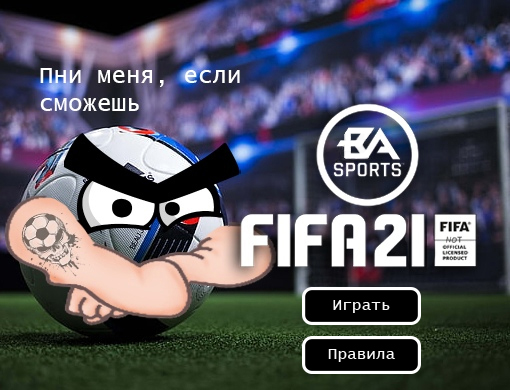
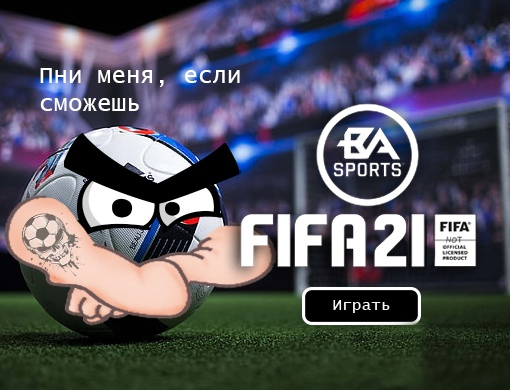
fixed rules bug, added collide feature

Changed region(s): [[0.5588, 0.8, 0.8824, 0.9846]]

diff --git a/pygame_project/main.py b/pygame_project/main.py
@@ -111,7 +111,7 @@ def rules_screen():
                 terminate()
             elif event.type == pygame.KEYDOWN or \
                     event.type == pygame.MOUSEBUTTONDOWN:
-                start_screen()
+                return
         pygame.display.flip()
         CLOCK.tick(FPS)
 
@@ -290,18 +290,18 @@ class Cross(pygame.sprite.Sprite):
             TILE_WIDTH * x + 1.5, TILE_HEIGHT * y + 1.5)
 
 
-class ToMainMenu(pygame.sprite.Sprite):
-    def __init__(self, x, y):
-        super().__init__(tiles, all_sprites)
-        self.image = main_menu_image
-        self.rect = self.image.get_rect().move(TILE_WIDTH * x, TILE_HEIGHT * y)
+class Button(pygame.sprite.Sprite):
+    def __init__(self, type, x, y):
+        super().__init__(button_group, all_sprites)
+        self.image = button_images[type]
+        self.rect = self.image.get_rect().move(
+            TILE_WIDTH * x, TILE_HEIGHT * y)
+        self.type = type
 
-
-class Restart(pygame.sprite.Sprite):
-    def __init__(self, x, y):
-        super().__init__(tiles, all_sprites)
-        self.image = restart_image
-        self.rect = self.image.get_rect().move(TILE_WIDTH * x, TILE_HEIGHT * y)
+    def get_event(self, event):
+        if self.rect.collidepoint(event.pos):
+            return self.type
+        return ''
 
 
 tile_images = {
@@ -310,15 +310,19 @@ tile_images = {
     'lower_gates': load_image('lower_gates.png', -1),
     'cross': load_image('cross.png', -1)
 }
+button_images = {
+    'main_menu': load_image('to_main_menu.png', -1),
+    'restart': load_image('restart.png', -1),
+    'rules': load_image('rules.png', -1)
+}
 ball_image = load_image('ball.png', -1)
 holoball_image = load_image('holoball.png', -1)
 score_image = load_image('score.png', -1)
-main_menu_image = load_image('to_main_menu.png', -1)
-restart_image = load_image('restart.png', -1)
 all_sprites = pygame.sprite.Group()
 tiles = pygame.sprite.Group()
 ball_group = pygame.sprite.Group()
 holoball_group = pygame.sprite.Group()
+button_group = pygame.sprite.Group()
 cross_group = pygame.sprite.Group()
 star_group = pygame.sprite.Group()
 
@@ -329,9 +333,10 @@ if __name__ == '__main__':
     ball, ball_x, ball_y = generate_level(level_map)
     pygame.display.set_caption('Футбольчик')
     field = Field(11, 11, ball_x, ball_y - 1)
-    to_main_menu_btn = ToMainMenu(12, 1)
+    to_main_menu_btn = Button('main_menu', 12, 1)
+    restart_btn = Button('restart', 12, 9)
+    rules_btn = Button('rules', 12, 12)
     score = Score(12, 4)
-    restart_btn = Restart(12, 9)
     h_ball_x, h_ball_y = ball.default_pos
     ballnow_x, ballnow_y = ball.default_pos
     count = 0
@@ -346,7 +351,6 @@ if __name__ == '__main__':
     while running:
         for event in pygame.event.get():
             if event.type == pygame.QUIT:
-                print(field.field)
                 running = False
             if event.type == pygame.MOUSEBUTTONDOWN:
                 if event.button == 1:
@@ -375,28 +379,35 @@ if __name__ == '__main__':
                                 count = 4
                                 goal_2 = True
                         else:
-                            if 360 <= x <= 480 and 30 <= y <= 90:
-                                h_ball_x, h_ball_y = ball.default_pos
-                                ballnow_x, ballnow_y = ball.default_pos
-                                count = 0
-                                coords = [(5, 6)]
-                                player_1, player_2 = 0, 0
-                                player_1_turn = True
-                                moving = True
-                                goal_1 = False
-                                goal_2 = False
-                                goal_confirmed = False
-                                start_screen()
-                            elif 360 <= x <= 480 and 270 <= y <= 330:
-                                field.clear()
-                                ball.move(ball.default_x, ball.default_y)
-                                coords = [(5, 6)]
-                                count = 0
-                                h_ball_x, h_ball_y = ball.default_pos
-                                ballnow_x, ballnow_y = ball.default_pos
-                                field.field[ball_x][ball_y - 1] = 1
-                                player_1_turn = True
-                                goal_1, goal_2, goal_confirmed = False, False, False
+                            for btn in button_group:
+                                type = btn.get_event(event)
+                                if type:
+                                    break
+                            if type:
+                                if type == 'main_menu':
+                                    h_ball_x, h_ball_y = ball.default_pos
+                                    ballnow_x, ballnow_y = ball.default_pos
+                                    count = 0
+                                    coords = [(5, 6)]
+                                    player_1, player_2 = 0, 0
+                                    player_1_turn = True
+                                    moving = True
+                                    goal_1 = False
+                                    goal_2 = False
+                                    goal_confirmed = False
+                                    start_screen()
+                                elif type == 'restart':
+                                    field.clear()
+                                    ball.move(ball.default_x, ball.default_y)
+                                    coords = [(5, 6)]
+                                    count = 0
+                                    h_ball_x, h_ball_y = ball.default_pos
+                                    ballnow_x, ballnow_y = ball.default_pos
+                                    field.field[ball_x][ball_y - 1] = 1
+                                    player_1_turn = True
+                                    goal_1, goal_2, goal_confirmed = False, False, False
+                                elif type == 'rules':
+                                    rules_screen()
                     else:
                         x, y = field.get_cell(*event.pos)
                         if (x, y + 1) not in coords:
@@ -435,6 +446,7 @@ if __name__ == '__main__':
         star_group.update()
         SCREEN.fill((0, 0, 0))
         tiles.draw(SCREEN)
+        button_group.draw(SCREEN)
         if moving:
             holoball_group.draw(SCREEN)
         else:
